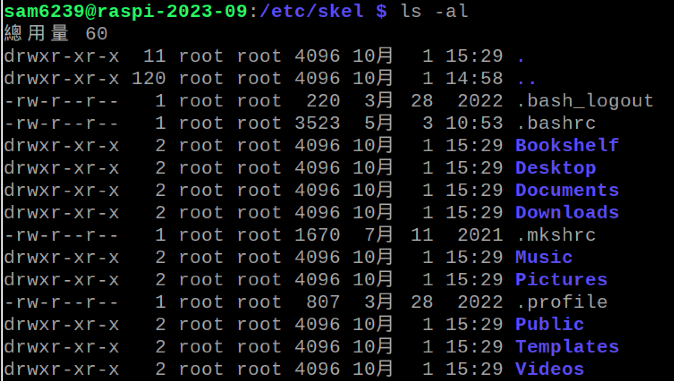
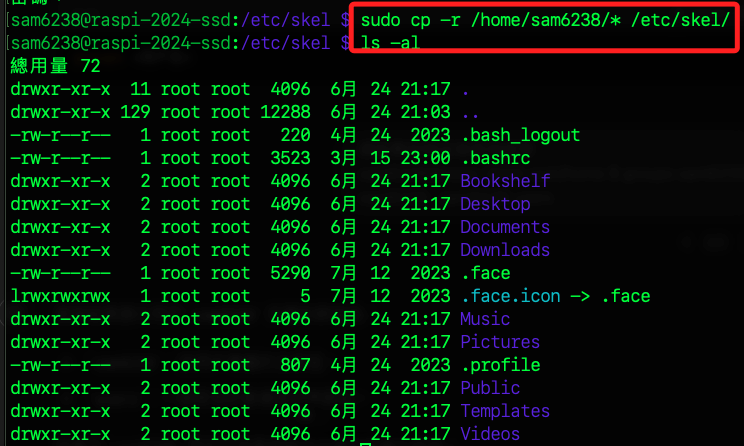
ser0624

diff --git a/D01_樹莓派+Linux/1_樹莓派基本操作/10_編輯用戶預設環境設置檔案.md b/D01_樹莓派+Linux/1_樹莓派基本操作/10_編輯用戶預設環境設置檔案.md
@@ -18,7 +18,7 @@ _編輯使用者的預設環境檔案_
 
 <br>
 
-2. 查詢：確實有這些隱藏的設定檔案。
+2. 查看資料夾，可發現有些隱藏的 `預設設定文件`，檔案前綴 `.` 代表的就是 `隱藏檔案`。
 
     ```bash
     ls -al
@@ -28,7 +28,17 @@ _編輯使用者的預設環境檔案_
 
 <br>
 
-3. 使用 root 帳號（這裡是 sam6238）將 root 目錄下的檔案複製。
+## 複製文件
+
+1. 先切換到主帳號中。
+
+    ```bash
+    su sam6238
+    ```
+
+<br>
+
+2. 將主帳號 `sam6238` 家目錄中的文件全部複製到資料夾 `/etc/skel/` 中，參數 `-r` 代表遞迴複製；特別注意，因為主帳號也是新建立的，所以當前亦無任何資料，這樣的複製只是將資料夾重建在新用戶家目錄中。
 
     ```bash
     sudo cp -r /home/sam6238/* /etc/skel/
@@ -37,7 +47,6 @@ _編輯使用者的預設環境檔案_
     ![](images/img_602.png)
 
 <br>
-
 
 ## 實測
 
@@ -49,13 +58,15 @@ _建立新用戶_
 
     ```bash
     sudo adduser <新用戶名稱>
+    # 例如
+    sudo adduser sam6240
     ```
 
     ![](images/img_603.png)
 
 <br>
 
-2. 進入新用戶的家目錄查看。
+2. 查看家目錄，可以發現主帳號並無訪問其他新建用戶家目錄的權限。
 
     ```bash
     cd /home && tree
@@ -65,7 +76,9 @@ _建立新用戶_
 
 <br>
 
-3. 特別注意，這些資料夾都是空的，這個操作只是示範如何透過樣板來建立相同狀態的使用者。
+3. 分別進入兩個新建帳號中進行查看，可確認其帳號專屬的資料與結構。
+
+    ![](images/img_61.png)
 
 <br>
 
